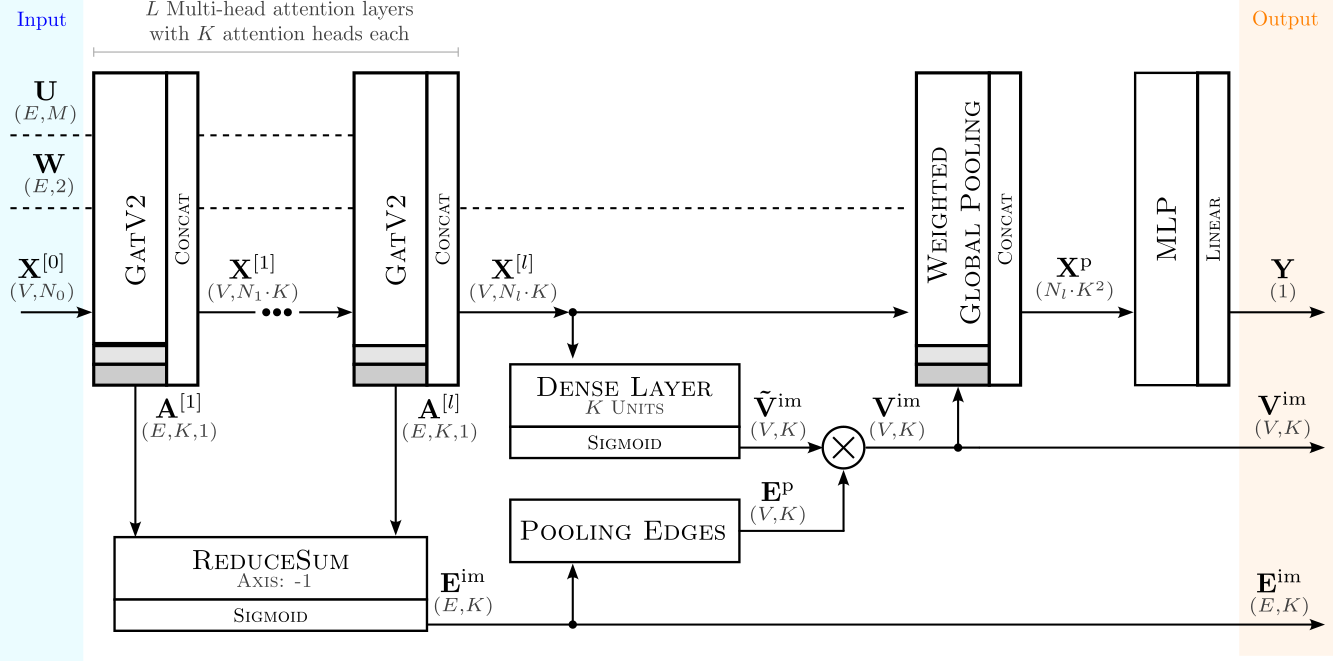
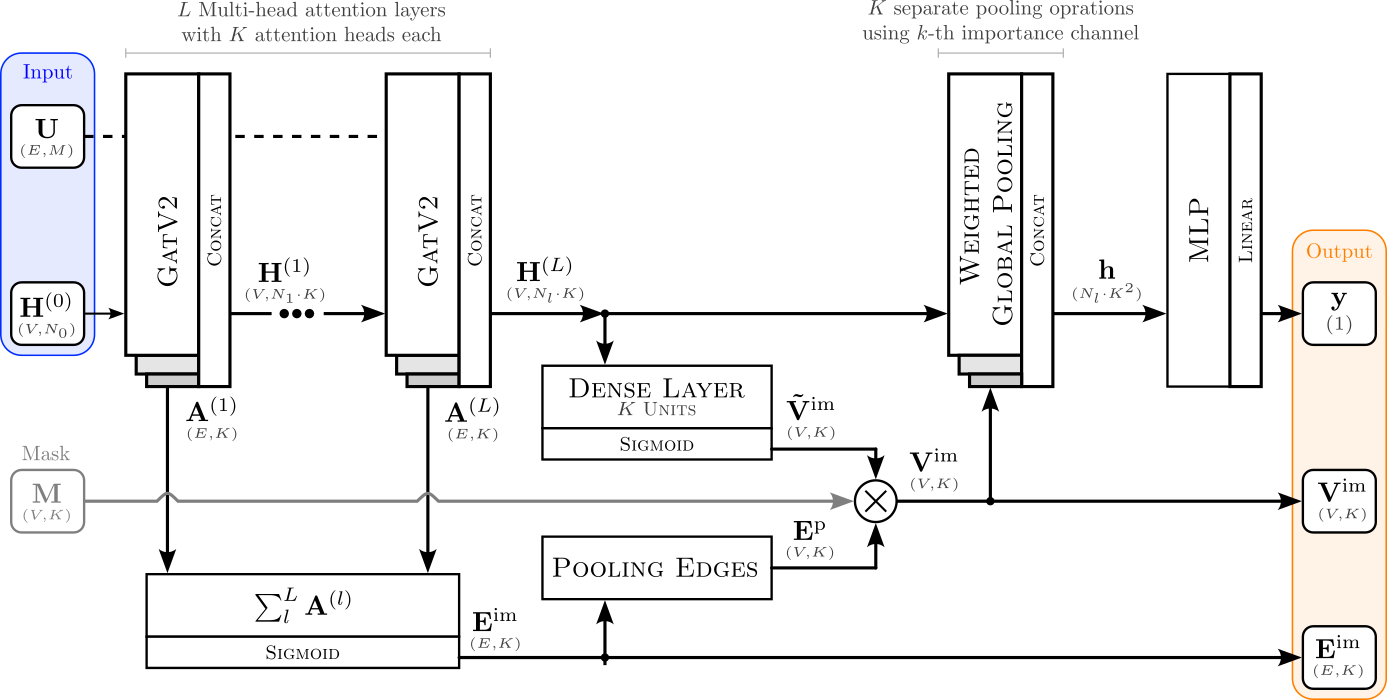
added documentation

Changed region(s): [[0.0, 0.0, 1.0, 1.0], [0.9535, 0.0, 0.9842, 0.0605]]

diff --git a/graph_attention_student/experiments/README.rst b/graph_attention_student/experiments/README.rst
@@ -6,7 +6,7 @@ This folder contains all scripts which were used to obtain the results. All of t
 represent `PyComex`_ ``Experiment`` modules. This means that it should be possible to execute any of the
 scripts on their own - assuming the package has been previously installed correctly.
 
-Upon executing one of the scripts a new artifacts folder will be created automatically in this folder. This
+Upon executing one of the scripts a new artifacts folder will be created automatically. This
 artifact folder contains the experiment progress log in the ``experiment_log.txt``, all of the recorded
 metrics etc. within the ``experiment_data.json`` file and all the created plots etc.
 

diff --git a/README.rst b/README.rst
@@ -12,6 +12,9 @@
 .. |made-with-python| image:: https://img.shields.io/badge/Made%20with-Python-1f425f.svg
    :target: https://www.python.org/
 
+.. image:: architecture.png
+    :width: 800
+    :alt: Architecture Overview
 
 ================================================
 MEGAN: Multi Explanation Graph Attention Student
